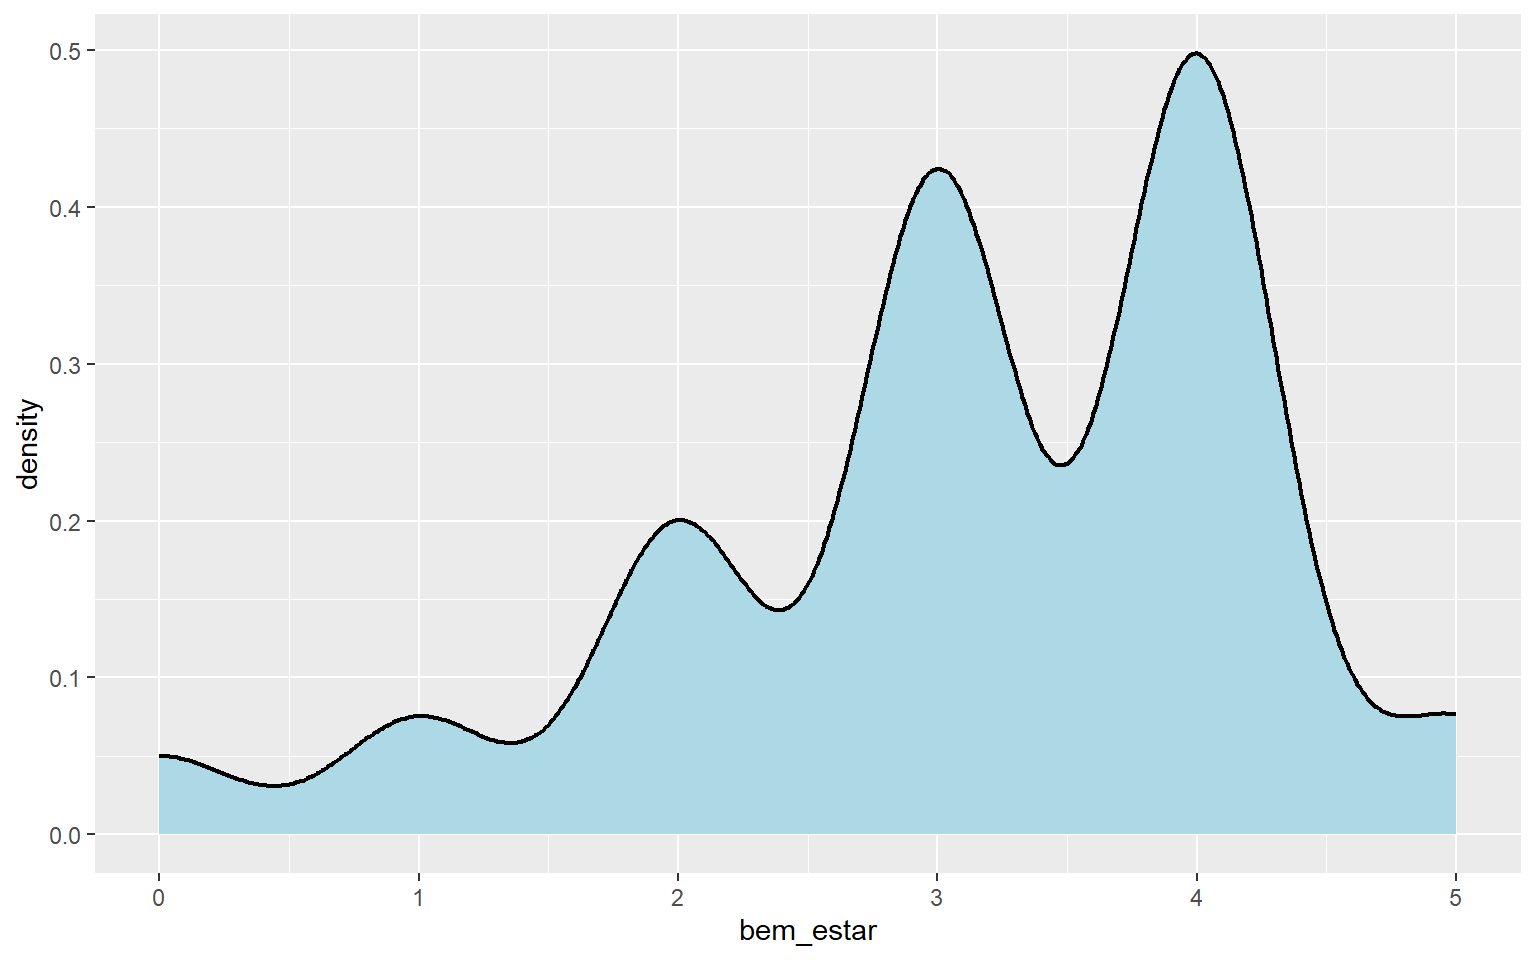
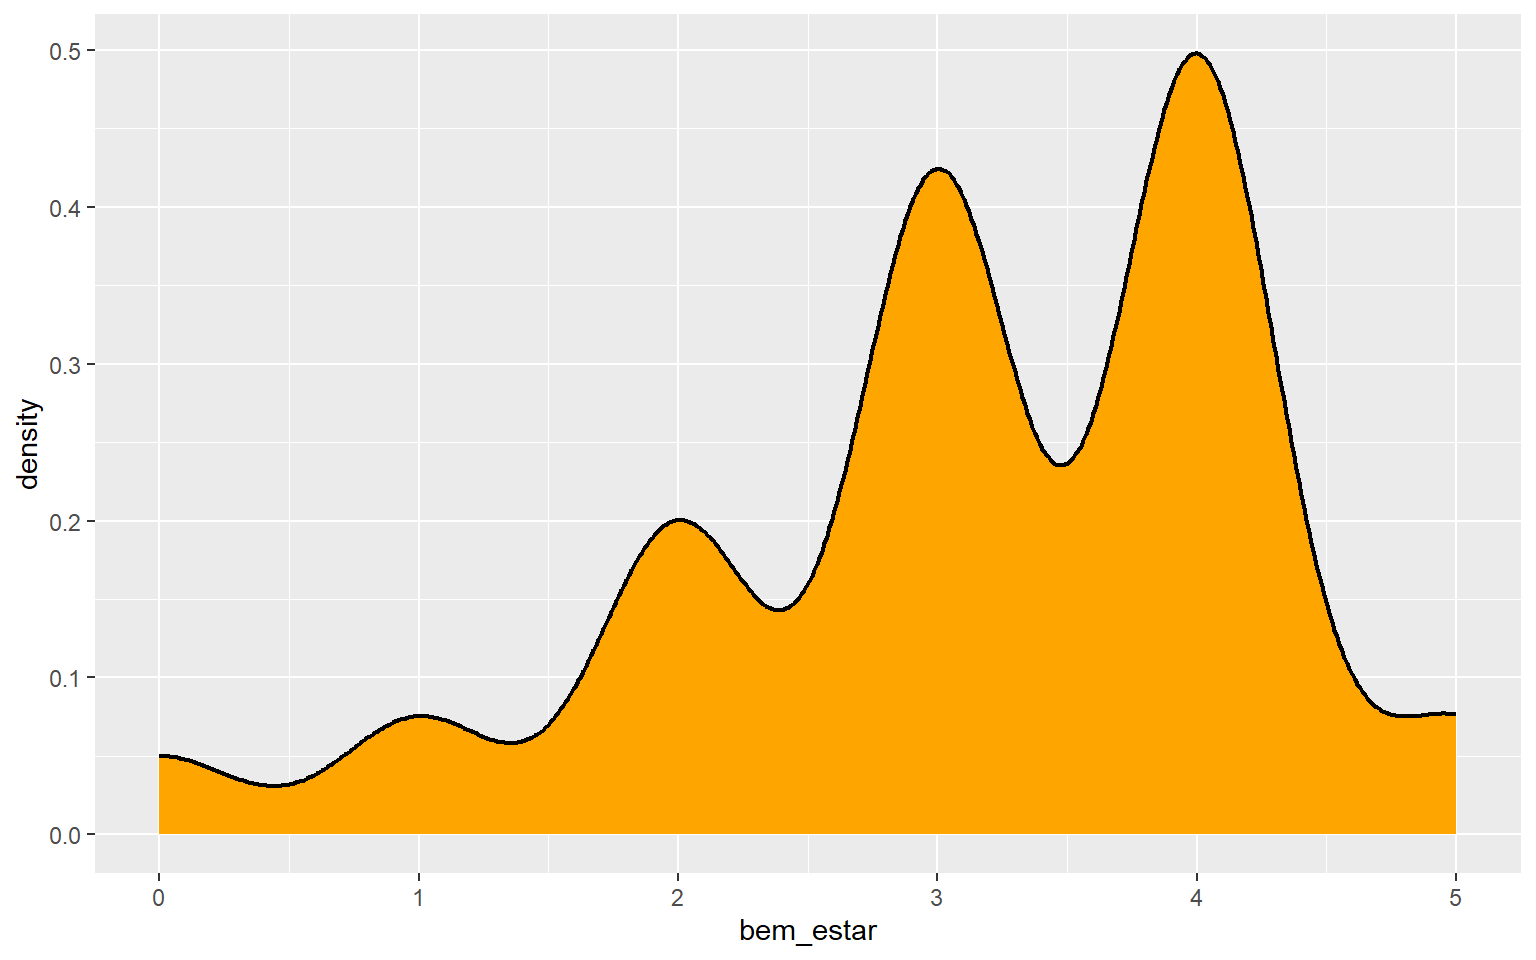
Atualizações

Changed region(s): [[0.0938, 0.0625, 0.9688, 0.875]]

diff --git a/trabalho_dieta_treino/dashboard.html b/trabalho_dieta_treino/dashboard.html
@@ -124,8 +124,8 @@ grid-auto-rows: minmax(0, 1fr);">
 <div class="card html-fill-item html-fill-container bslib-card" data-fill="false" data-bslib-card-init="" data-require-bs-caller="card()" data-full-screen="false">
 <div class="card-body html-fill-item html-fill-container">
 <p>A semelhança entre os dois gráficos a seguir deixa claro a relação positiva entre uma alimentação saudável e o bem-estar físico e mental.</p>
-<p>Repare por exemplo que o para o nível 4 no eixo x, a curva de densidade é extremamente parecida nos dois gráficos.</p>
-<p>Isso porque, a maioria das pessoas que avaliou sua alimentação como como nota 4 também avaliou seu bem-estar com essa mesma nota.</p>
+<p>Repare por exemplo que para o nível 4 no eixo x, a curva de densidade é extremamente parecida nos dois gráficos.</p>
+<p>Isso porque, a maioria das pessoas que avaliou sua alimentação como nota 4 também avaliou seu bem-estar com essa mesma nota.</p>
 </div>
 <bslib-tooltip placement="auto" bsoptions="[]" data-require-bs-version="5" data-require-bs-caller="tooltip()">
     <template>Expand</template>